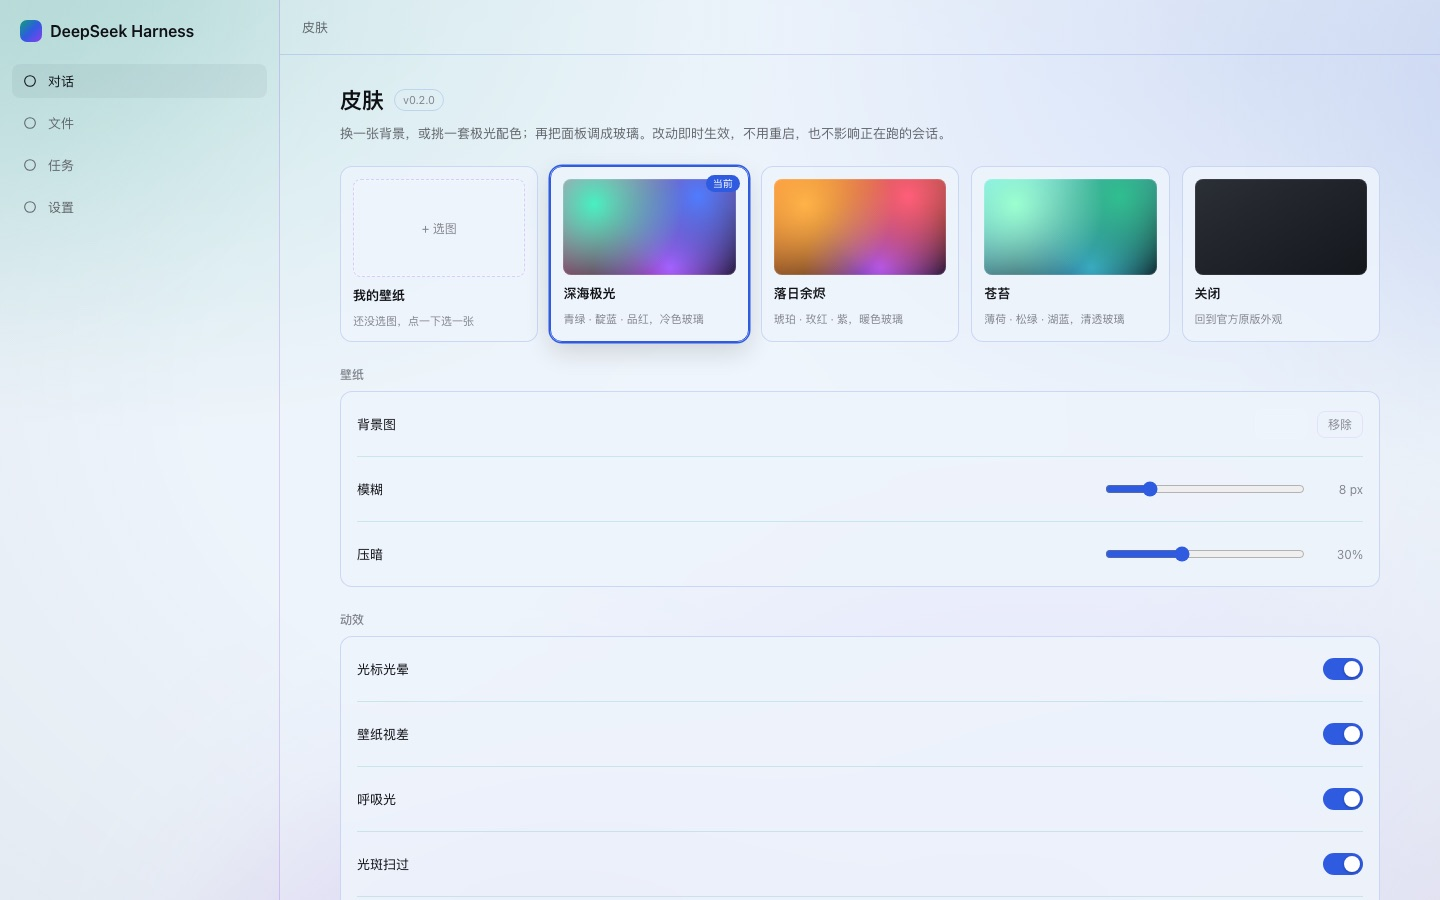
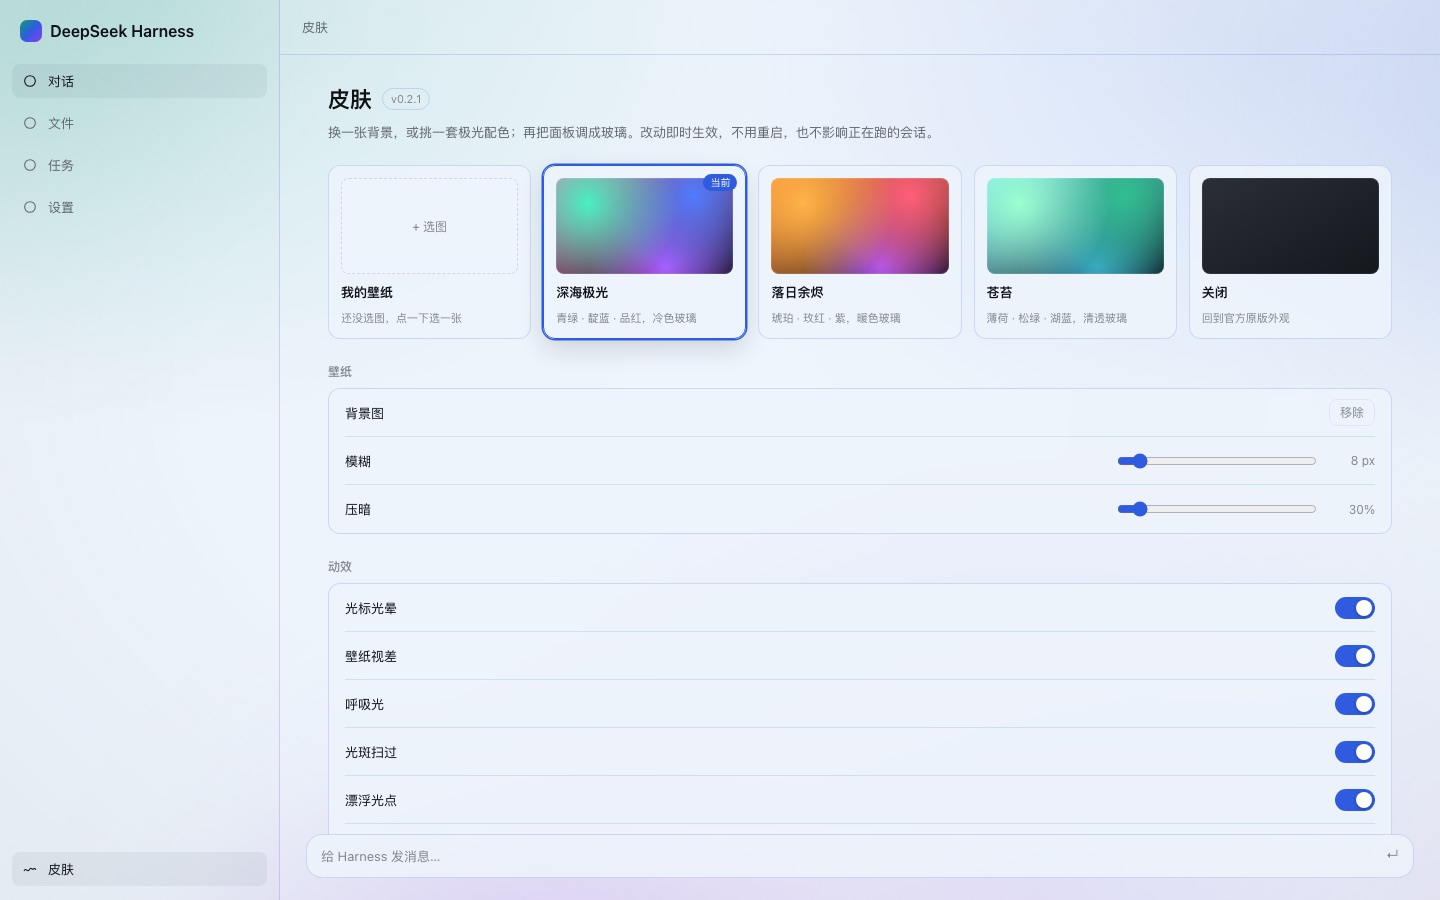
fix: full-width scrollable page (v0.2.1)

diff --git a/client.js b/client.js
@@ -19,7 +19,7 @@ window.__ModuleLoader__.load({
     const h = React.createElement
 
     const NAME = 'dsh-aurora-theme'
-    const VERSION = '0.2.0'
+    const VERSION = '0.2.1'
     /** Main-panel key and sidebar entry id; they must match. */
     const PANEL_ID = 'aurora-theme'
     /** Locale namespace for this plugin's dictionaries. */
@@ -992,10 +992,20 @@ body:not([data-ds-dark-theme]) #dsh-aurora-layer .dsh-aurora-vignette {
 
 /* ---- skin page ---- */
 .dsh-aurora-page {
-  max-width: 1040px; margin: 0 auto; padding: 30px 24px 72px;
+  /* The main panel gives its page the full column and expects the page to
+     scroll itself (same contract as the shipped plugins page). */
+  box-sizing: border-box;
+  height: 100%;
+  overflow-y: auto;
+  scrollbar-gutter: stable;
+  padding: 30px clamp(24px, 4vw, 48px) 64px;
   color: var(--dsw-alias-label-primary, #111);
   font: inherit;
 }
+[data-platform="darwin"] .dsh-aurora-page {
+  padding-top: calc(30px + var(--dsh-frame-top-clearance, 0px));
+}
+.dsh-aurora-page * { box-sizing: border-box; }
 .dsh-aurora-head { display: flex; align-items: center; gap: 10px; margin-bottom: 8px; }
 .dsh-aurora-title { margin: 0; font-size: 22px; line-height: 30px; font-weight: 600; }
 .dsh-aurora-version {

diff --git a/README.md b/README.md
@@ -44,7 +44,7 @@ dsh plugin --profile web add https://github.com/lewis6663721/dsh-aurora-theme
 
 ```sh
 npm pack --pack-destination dist
-dsh plugin --profile web add ./dist/dsh-aurora-theme-0.2.0.tgz
+dsh plugin --profile web add ./dist/dsh-aurora-theme-0.2.1.tgz
 ```
 
 ### 从本地目录安装（开发用）
